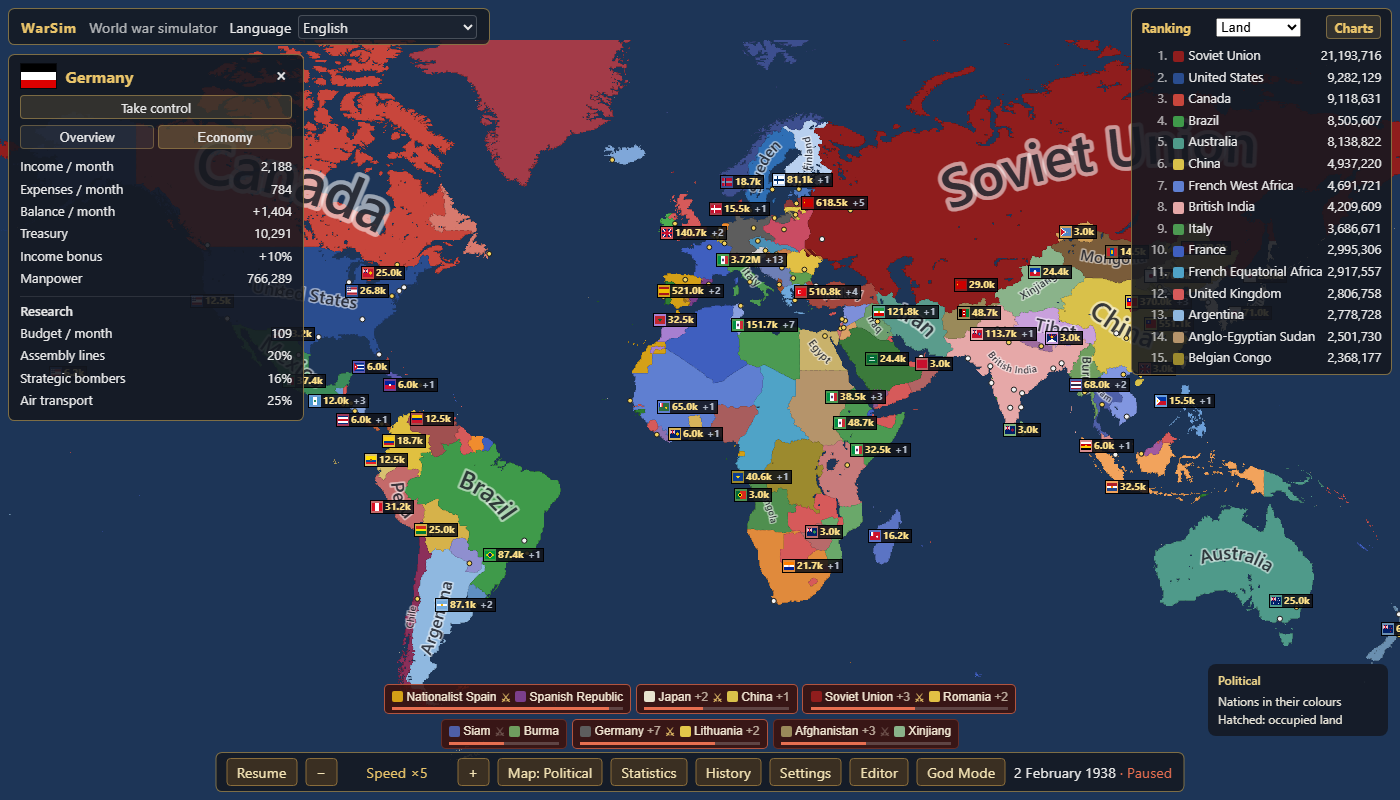
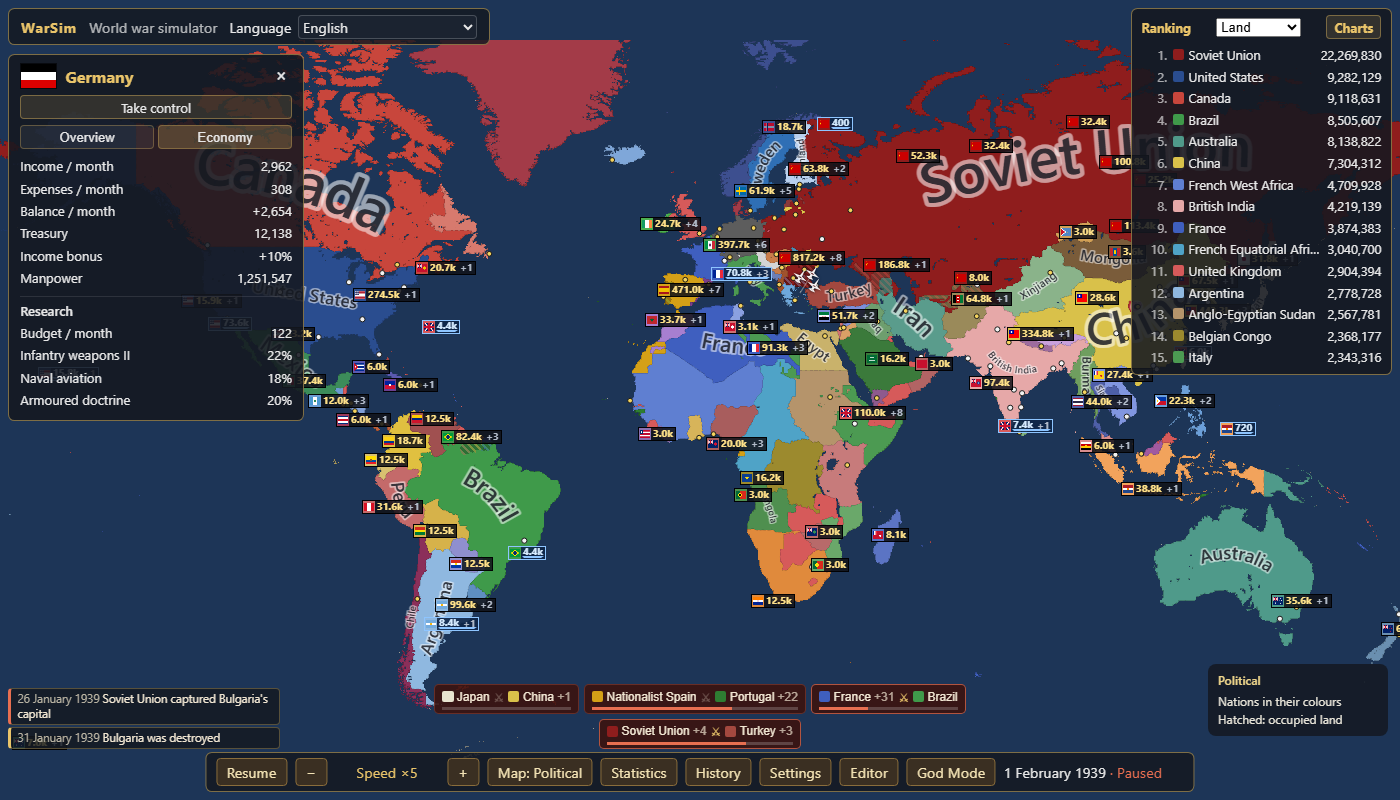
PLAN 5.8w10: research on the page, in 1939 (ADR-364)
Claude-Session: https://claude.ai/code/session_01F7jwXELFm2N2ZdjzXuwQhn

diff --git a/tests/e2e/research1938.spec.ts b/tests/e2e/research1938.spec.ts
@@ -5,14 +5,14 @@ import type {} from '../../src/app/testApi';
 import { NATIONS_1938, RULES_1938 } from '../../src/sim/scenario1938';
 
 // PLAN 3.1e AT: Germany's panel in 1938 lists three techs by name with a share paid that grows
-// over a month, and its research budget.
+// over a month, and its research budget (in 1939 since PLAN 5.8w10).
 
 const en = JSON.parse(readFileSync(path.resolve(import.meta.dirname, '../../src/ui/i18n/en.json'), 'utf8')) as Record<string, string>;
 const id = (tag: string): number => NATIONS_1938.findIndex((n) => n.tag === tag) + 1;
 const int = (s: string | null): number => Number((s ?? '').replace(/[^0-9]/g, ''));
 
 test('research on the page: Germany works on three techs, and a month pays more of each', async ({ page }, info) => {
-  test.setTimeout(180_000);
+  test.setTimeout(300_000);
   await page.setViewportSize({ width: 1400, height: 800 });
   await page.goto('/?scenario=1938&paused=1&seed=1938');
   await page.waitForFunction(() => (window.__warsim?.view?.frames ?? 0) > 0 && window.__warsim!.hud.stats.value !== null && window.__warsim!.hud.techs.value.length > 0, null, { timeout: 60_000 });
@@ -25,8 +25,10 @@ test('research on the page: Germany works on three techs, and a month pays more 
   await expect(page.getByTestId('panel-research')).toContainText(en['panel.researchNone']!);
   await expect(lines).toHaveCount(0);
 
-  // The budget is set on the first day and the lines are opened on the second.
-  await page.evaluate(() => window.__warsim!.sim.step(24 * 2));
+  // The budget is set on the first day and the lines are opened on the second. Of 1939 (PLAN
+  // 5.8w10, ADR-364): since the start's air forces (5.1d) a nation knows the techs its wings need,
+  // and Germany has two techs of 1938 left to learn; on 2 January 1939 it opens three of 1939.
+  await page.evaluate(() => window.__warsim!.sim.step(24 * 366));
   await expect(lines).toHaveCount(3, { timeout: 20_000 });
   const read = async (): Promise<{ name: string; paid: number }[]> => {
     const out: { name: string; paid: number }[] = [];

diff --git a/docs/PARITY.md b/docs/PARITY.md
@@ -109,7 +109,7 @@ by `npm run parity -- --write`; never hand-edit it. `npm run parity` fails if it
 | 5 | Aircraft | Fighters, bombers, CAS, transports, airbases, range, air superiority, interception, strategic bombing, carrier air groups | partial | `tests/unit/airZones1938.test.ts`, `tests/unit/airTemplates.test.ts`, `tests/unit/airbases1938.test.ts`, `tests/unit/wings1938.test.ts`, `tests/unit/wingRange1938.test.ts`, `tests/unit/sorties.test.ts`, `tests/unit/sortieScheduler1938.test.ts`, `tests/unit/airCombat1938.test.ts`, `tests/unit/antiAir1938.test.ts`, `tests/unit/airSuperiority1938.test.ts`, `tests/unit/airGround.test.ts`, `tests/unit/airStrike1938.test.ts`, `tests/unit/navalStrike1938.test.ts`, `tests/unit/carrierAir1938.test.ts`, `tests/unit/bombing1938.test.ts`, `tests/unit/portBombing1938.test.ts`, `tests/unit/airAi1938.test.ts`, `tests/sweep/airYear.test.ts`, `tests/unit/sortiesDrawn.test.ts`, `tests/e2e/sortiesSeen1938.spec.ts`, `docs/evidence/5.7/`, `tests/unit/airFx.test.ts`, `tests/e2e/airFx1938.spec.ts`, `tests/unit/airHolders.test.ts`, `tests/e2e/airControl1938.spec.ts`, `tests/e2e/airDemo1938.spec.ts`, `tests/unit/airDesync.test.ts`, `tests/unit/airEdges.test.ts`, `tests/unit/carrierLoss1938.test.ts`, `tests/unit/airbaseLoss1938.test.ts`, `tests/unit/serverAirControl.test.ts`, `tests/unit/wingAboard1938.test.ts`, `tests/unit/wingsBuilt1938.test.ts`, `tests/unit/airBudget1938.test.ts`, `tests/unit/airSupply.test.ts`, `tests/unit/airDetection1938.test.ts`, `tests/unit/airStrikeSuperiority1938.test.ts`, `tests/unit/airLift1938.test.ts`, `tests/unit/paradrop1938.test.ts` | SPEC §6.3, Phase 5. 2026-10-13 (PLAN 5.1, ADR-306 to ADR-310): the map in air zones; six wing templates; 172 airbases in 1938; the start's 216 wings at their airbases and on the carriers; a wing's range from its base, its mission refused beyond it (`OutOfRange`), and a rebase to its side's airbase or carrier with room. 2026-10-13 (PLAN 5.2, ADR-311, ADR-312): a wing with a mission flies sorties, each a pure function of its launch, turning round 2 hours between them; the sorties in the air by zone. 2026-10-13 (PLAN 5.3a, ADR-313): sorties of nations at war in one zone fight; fighters beat bombers. 2026-10-13 (PLAN 5.3b, ADR-314): AA from what is below a sortie, land and fleets. 2026-10-13 (PLAN 5.3c, ADR-315): air superiority per zone from the air power each side flew there. 2026-10-13 (PLAN 5.4a, ADR-316): air superiority × 0.8 to 1.2 a formation's fire in a land battle. 2026-10-13 (PLAN 5.4b, ADR-317): CAS and tactical bombing of the enemy's land formations. 2026-10-13 (PLAN 5.4c, ADR-318): naval strike. 2026-10-13 (PLAN 5.4d, ADR-319): carrier air groups see and strike in fleet battles. 2026-10-13 (PLAN 5.5a, ADR-320): strategic bombing of industry, repaired day by day. 2026-10-13 (PLAN 5.5b, ADR-321): ports bombed and shut. 2026-10-13 (PLAN 5.6, ADR-322): the AI tasks its wings; a year of seed 99 has 18,856 strikes, the strategic ones where its side holds the air. 2026-10-13 (PLAN 5.7a, ADR-323): sorties drawn as planes along their paths, T0 to T2. 2026-10-13 (PLAN 5.7b, ADR-324): air fights, bombs and flak drawn. 2026-10-13 (PLAN 5.7c, ADR-325): the air-superiority map mode. 2026-10-13 (PLAN 5.7d, ADR-326): the air battle demo at T0 to T2 and in the mode; a sortie meets the enemy's within 150 km. Built since (5.4 to 5.7): CAS, naval strike, strategic bombing, the air AI and the air's visuals. 2026-10-13 (PLAN 5.8, the Phase 5 review, ADR-327 to ADR-351): a saved game plays on as the same game left running; the map's edges; a wing lost with its carrier or beyond its fleet's live carriers, and falling back from an airbase the enemy took; no wing aboard transports; wings built at an airfield, the economic AI keeping its air force under a tenth of its army's upkeep (seed 99: 42 ordered in the year, 23 delivered); air superiority on supply (× 0.5 to 1.5 the refill), a fleet's detection (× 0.75 to 1.25) and a strike's fire and tons (× 0.75 to 1.25); air supply and the paradrop, each flown by the AI (its paradrops reinforce its front, and in 1938 no AI formation can be dropped). Missing: the page's orders for a wing (a mission, a rebase, a paradrop are commands with no control yet); the AI's drops behind the enemy's front; strategic and naval wings rebuilt by the AI. |
 | 6 | AI nuclear weapons | AI research, build, stockpile and use with doctrine, retaliation and escalation logic; delivery, blast, fallout, MAD; God toggles | not started |  | SPEC §6.4, Phase 6 |
 | 7 | Supply and attrition | Supply network from capitals, cities and ports; encirclement attrition | partial | `tests/unit/supply.test.ts`, `tests/unit/fuel.test.ts`, `tests/unit/org.test.ts`, `tests/unit/breakdown.test.ts`, `tests/unit/seaSupply1938.test.ts`, `tests/unit/blockade1938.test.ts`, `tests/unit/convoys1938.test.ts`, `tests/unit/airSupply.test.ts`, `tests/unit/airLift1938.test.ts` | 2026-10-02 (PLAN 1.12): land network floods from owned+controlled cities over the bloc's controlled cells and crossing lanes, puppets share the overlord's bloc; an encircled division drains in 8 h and attrits ≥ 2%/day + terrain. Missing: ports and sea supply (Phase 4), consumption and depots, supply effects on combat 2026-10-07 (PLAN 3.7f; built by PLAN 3.2, ADR-134 to ADR-136, and noted in row 4 alone until now): consumption and supply's effect on combat. Off its network a formation on the march burns what it carries faster by the fuel of its elements; one that moves on engines slows to a quarter of its speed as it runs dry, then loses its org (its fire falls with it, to a quarter with none), then a tenth a day of its tanks and towed heavy guns. A rifle division walks and fights as before. Still missing: ports and sea supply (Phase 4), depots. 2026-10-09 (PLAN 3.12Rl, ADR-223; found by an independent read): the puppets of a nation annexed with its cities occupied kept the mark of its bloc (the Congo's 6,240 cells after Germany annexed Belgium: its formations unfed, a loaded save another game); an annexation that hands puppets over now refreshes the network in full. Still missing, as before; and the flood crosses the seam of a map that does not loop (PLAN 3.12Rp). 2026-10-09 (PLAN 3.12Rp, ADR-227): on a map that does not loop (the `looping=0` option) the network keeps to the edges: a bloc with land at both edges and a city at one has no network at the other, in a full refresh and in a mended one. Still missing, as before; and a formation within 2 cells of the seam on ground not its side's is still fed over it (PLAN 3.12Rs). 2026-10-12 (PLAN 4.8g; built by PLAN 4.4b to 4.4d, ADR-258 to ADR-260, and noted in additions row 3 alone until now): ports and sea supply. A land's cities feed its network only while a way by sea that no enemy holds joins it to home (`tests/unit/seaSupply1938.test.ts`); and two effects on income: a province with every port in an enemy-held zone pays half its income (the blockade, `tests/unit/blockade1938.test.ts`), and enemy submarines on a land's way home take a share of its income (convoys, `tests/unit/convoys1938.test.ts`). Still missing: depots; and a formation within 2 cells of the seam on ground not its side's is still fed over it (PLAN 3.12Rs). 2026-10-13 (PLAN 5.8t1, 5.8u1, 5.8u3a, ADR-345, ADR-348, ADR-350): a formation fed regains its supply at half the rate under the enemy's air, one and a half under its own; transports fly supply to formations short of it (1/48 of a formation's supply an aircraft), and the AI's to its own under half. |
-| 8 | Production, manpower and tech | Production queues, manpower, a 1936–1990+ tech tree gating unit types | partial | `data/tech/`, `tests/unit/data-schemas.test.ts`, `tests/unit/production.test.ts`, `tests/unit/tech.test.ts`, `docs/evidence/3.1/build-list-poland.png`, `tests/unit/research.test.ts`, `tests/sweep/researchYears.test.ts`, `tests/unit/armourTemplates.test.ts`, `tests/e2e/research1938.spec.ts`, `tests/unit/techNames.test.ts`, `docs/evidence/3.1/research-germany.png`, `tests/unit/armourWorth.test.ts`, `tests/unit/ships1938.test.ts`, `tests/e2e/buildFleet1938.spec.ts`, `tests/unit/navyBudget1938.test.ts`, `tests/unit/lakePorts1938.test.ts`, `tests/unit/wingsBuilt1938.test.ts`, `tests/unit/airBudget1938.test.ts` | SPEC §3.7. PLAN 1.1: 43-tech tree (1936–1952, 7 categories, acyclic, year-ordered) gates 28 unit types via `techReq`. PLAN 1.10: pay-on-order production queue (gold + manpower, training days, spawn at capital), manpower from 1938 population. Missing: research system, tech gating at order time, production UI. 2026-10-06 (PLAN 3.1a, ADR-127): a nation's techs are state; an order for a template whose techs it lacks is rejected, the AI orders what it can build and the build list says "not researched" (the production UI is there since PLAN 1.33b). Still missing: research. 2026-10-06 (PLAN 3.1b, ADR-128): research. A nation pays for up to three techs by the day out of 5% of its income and knows a tech when it is paid for; the year of a tech is a floor; the nuclear techs wait for Phase 6. Evidence added: `tests/unit/research.test.ts`, `tests/sweep/researchYears.test.ts` (seed 99: nobody knows the heavy tank before 1942, seven great powers on 1942-08-28). Still missing: research on the page (PLAN 3.1e), tech modifiers, industry as an input. 2026-10-06 (PLAN 3.1c, ADR-129): what is learned can be built: four templates that ask for the techs of 1940 to 1950 (medium armoured, heavy armoured, mechanised and main battle tank divisions), on the build list as "not researched" in 1938 (`docs/evidence/3.1/build-list-poland.png`, shot again), and the AI's armour order is the best of them it knows and has the gold for (`tests/unit/armourTemplates.test.ts`). Still missing: research on the page (PLAN 3.1e), tech modifiers, industry as an input. 2026-10-06 (PLAN 3.1e, ADR-130): research on the page. The Economy tab of the nation panel has the research budget per month and a row per line with the tech's name and the share paid (`tests/e2e/research1938.spec.ts`: Germany, three lines from the second day, each further a month on; `docs/evidence/3.1/research-germany.png`). Still missing: tech modifiers, industry as an input, a list of what a nation knows, a command for a budget or a tech 2026-10-06 (PLAN 3.1d, ADR-131): the AI that disbands for want of money takes first what has the least of its upkeep in tanks, then the weakest by men (`tests/unit/armourWorth.test.ts`). Still missing: as before. 2026-10-06 (PLAN 3.4Rg, ADR-144): the research budget is a rule for every living nation, with AI or without; a played nation had none and never opened a line (`tests/unit/research.test.ts`, `tests/sweep/researchYears.test.ts`: France played from tick 0 knows 27 techs after two years, as the AI's France does; 18 before). Still missing: as before 2026-10-12 (PLAN 4.8g; built by PLAN 4.2e, 4.2f and 4.6e1, ADR-252, ADR-273, and noted in additions row 3 alone until now): ships are built. A nation with a port a ship reaches orders the six fleets, each in its slowest ship's days, delivered at its highest naval base (`tests/unit/ships1938.test.ts`, `tests/e2e/buildFleet1938.spec.ts`; a lake port is none, `tests/unit/lakePorts1938.test.ts`); the economic AI keeps its navy near 12 % of its income (`tests/unit/navyBudget1938.test.ts`). Still missing: as before. 2026-10-13 (PLAN 5.8s1, 5.8s2, ADR-343, ADR-344): an air wing is ordered as a land formation is and delivered at an airfield of its nation's with room; the economic AI orders a wing a time while its air force's upkeep is under a tenth of its army's. |
+| 8 | Production, manpower and tech | Production queues, manpower, a 1936–1990+ tech tree gating unit types | partial | `data/tech/`, `tests/unit/data-schemas.test.ts`, `tests/unit/production.test.ts`, `tests/unit/tech.test.ts`, `docs/evidence/3.1/build-list-poland.png`, `tests/unit/research.test.ts`, `tests/sweep/researchYears.test.ts`, `tests/unit/armourTemplates.test.ts`, `tests/e2e/research1938.spec.ts`, `tests/unit/techNames.test.ts`, `docs/evidence/3.1/research-germany.png`, `tests/unit/armourWorth.test.ts`, `tests/unit/ships1938.test.ts`, `tests/e2e/buildFleet1938.spec.ts`, `tests/unit/navyBudget1938.test.ts`, `tests/unit/lakePorts1938.test.ts`, `tests/unit/wingsBuilt1938.test.ts`, `tests/unit/airBudget1938.test.ts` | SPEC §3.7. PLAN 1.1: 43-tech tree (1936–1952, 7 categories, acyclic, year-ordered) gates 28 unit types via `techReq`. PLAN 1.10: pay-on-order production queue (gold + manpower, training days, spawn at capital), manpower from 1938 population. Missing: research system, tech gating at order time, production UI. 2026-10-06 (PLAN 3.1a, ADR-127): a nation's techs are state; an order for a template whose techs it lacks is rejected, the AI orders what it can build and the build list says "not researched" (the production UI is there since PLAN 1.33b). Still missing: research. 2026-10-06 (PLAN 3.1b, ADR-128): research. A nation pays for up to three techs by the day out of 5% of its income and knows a tech when it is paid for; the year of a tech is a floor; the nuclear techs wait for Phase 6. Evidence added: `tests/unit/research.test.ts`, `tests/sweep/researchYears.test.ts` (seed 99: nobody knows the heavy tank before 1942, seven great powers on 1942-08-28). Still missing: research on the page (PLAN 3.1e), tech modifiers, industry as an input. 2026-10-06 (PLAN 3.1c, ADR-129): what is learned can be built: four templates that ask for the techs of 1940 to 1950 (medium armoured, heavy armoured, mechanised and main battle tank divisions), on the build list as "not researched" in 1938 (`docs/evidence/3.1/build-list-poland.png`, shot again), and the AI's armour order is the best of them it knows and has the gold for (`tests/unit/armourTemplates.test.ts`). Still missing: research on the page (PLAN 3.1e), tech modifiers, industry as an input. 2026-10-06 (PLAN 3.1e, ADR-130): research on the page. The Economy tab of the nation panel has the research budget per month and a row per line with the tech's name and the share paid (`tests/e2e/research1938.spec.ts`: Germany, three lines from the second day, each further a month on; `docs/evidence/3.1/research-germany.png`). Still missing: tech modifiers, industry as an input, a list of what a nation knows, a command for a budget or a tech 2026-10-06 (PLAN 3.1d, ADR-131): the AI that disbands for want of money takes first what has the least of its upkeep in tanks, then the weakest by men (`tests/unit/armourWorth.test.ts`). Still missing: as before. 2026-10-06 (PLAN 3.4Rg, ADR-144): the research budget is a rule for every living nation, with AI or without; a played nation had none and never opened a line (`tests/unit/research.test.ts`, `tests/sweep/researchYears.test.ts`: France played from tick 0 knows 27 techs after two years, as the AI's France does; 18 before). Still missing: as before 2026-10-12 (PLAN 4.8g; built by PLAN 4.2e, 4.2f and 4.6e1, ADR-252, ADR-273, and noted in additions row 3 alone until now): ships are built. A nation with a port a ship reaches orders the six fleets, each in its slowest ship's days, delivered at its highest naval base (`tests/unit/ships1938.test.ts`, `tests/e2e/buildFleet1938.spec.ts`; a lake port is none, `tests/unit/lakePorts1938.test.ts`); the economic AI keeps its navy near 12 % of its income (`tests/unit/navyBudget1938.test.ts`). Still missing: as before. 2026-10-13 (PLAN 5.8s1, 5.8s2, ADR-343, ADR-344): an air wing is ordered as a land formation is and delivered at an airfield of its nation's with room; the economic AI orders a wing a time while its air force's upkeep is under a tenth of its army's. 2026-10-14 (PLAN 5.8w10, ADR-364): research on the page is shown in 1939: since the start's air forces a nation knows the techs its wings need, and no nation has three techs of 1938 to work on (`tests/e2e/research1938.spec.ts`: Germany, three lines on 2 January 1939, each further a month on; `docs/evidence/3.1/research-germany.png`, shot again on 1 February 1939). Still missing: as before. |
 | 9 | Deterministic worker sim | Pure seeded engine in a Web Worker; bit-identical save/load; replayable command log | partial | `tests/unit/determinism.test.ts`, `tests/e2e/worker.spec.ts`, `tests/e2e/snapshots.spec.ts`, `tests/unit/movement.test.ts` | SPEC §2, ADR-2, ADR-5. Phase 0: worker-hosted Sim, acked snapshots, I1–I5 on the toy world. **2026-10-05 (PLAN 2.12a, the critic's R2-B4):** a loaded game did not go on as the saved one late in a long 1938 game, and the worker's hash left Node's: a nation founded as its table grew was lost, and a loaded table grows at another row. Fixed; a game saved at each of ten year-ends on five seeds and loaded goes on as the game that was saved (50 of 50, by hand), and in the gate at year 9 of three seeds (`tests/helpers/aiSweep.ts`), with `tests/unit/tableGrowth.test.ts` and `tests/e2e/workerNodeGrowth1938.spec.ts` **2026-10-07 (PLAN 3.5f):** the page left Node again, at tick 73 of the spec's game: a history row held `undefined` (a peace signed by nobody), a NaN whose bits are the engine's. Fixed (ADR-155); `tests/unit/continuedGrowth1938.test.ts`, `tests/unit/war.test.ts`, and the spec green as written. **2026-10-07 (PLAN 3.7a, 3.7h):** the eighth independent read found no fault of save and load where it tried (a load every 173 ticks over 150 days, 57 loads through wartime with the bytes compared, a random world; its scripts are scratch and not kept). The state the review added (`formations.home`) has its test: a march home saved on its way and loaded goes on as the game that ran on. |
 | 10 | Resolution-independent real-geography map | Natural Earth coastlines and provinces; smooth borders and real detail at every zoom (no blocky pixels) | partial | `tests/unit/data-manifest.test.ts`, `docs/bench/R-provinces-M-europe.png`, `docs/bench/A-webgl2-map-z2-close.png`, `tests/e2e/coastPicture1938.spec.ts`, `docs/evidence/2.9/coast-norway-40m.png`, `tests/e2e/groundColour1938.spec.ts`, `docs/evidence/2.14/ground-alps-60m.png` | ADR-1, ADR-7. Phase 0: NE land mask, ETOPO elevation, 4596 admin-1 provinces at load time, smooth borders. 2026-10-02 (PLAN 1.28a): borders free of stair artefacts (analytic gradient), `docs/evidence/1.28/`; fine coastline from the 16k land mask (PLAN 1.28b: fjords and islands, `docs/evidence/1.28/coast-norway.png`). 2026-10-04 (PLAN 2.9, ADR-79): at T2 and T3 the coast is the mask itself (8 px to a cell, a shore inside a pixel), and formations, elements and trees stand on its land (`docs/evidence/2.9/`). 2026-10-05 (the Phase 2 review, PLAN 2.11): at T2 and T3 the map has a ground: relief shading from the elevation, a texture by terrain, trees, rocks and buildings (`docs/evidence/2.8/things-forest-20m.png`, `docs/evidence/2.8/things-city-20m.png`), worked out for each pixel down to 1 m/px. Roads near cities are not built (PLAN 7.4) 2026-10-05 (PLAN 2.14d, ADR-90; the critic's R2-B2: the Alps were salmon pink for being Swiss, Chad sky blue): at T2 and T3 the ground's colour is the terrain's, and the nation's fill is a cast on it that is strong at a border and slight inland (`docs/evidence/2.14/ground-alps-60m.png`, `ground-chad-5m.png`, `ground-berlin-20m.png`, `ground-border-150m.png`) |
 | 11 | Headless runner, soak and sweep tooling | Node runner with metrics, 30-minute soak, multi-seed multi-decade sweep | partial | `tools/headless/runner.ts`, `tests/unit/headless.test.ts`, `tools/sweep/run.ts`, `tests/unit/sweepCriteria.test.ts`, `docs/sweeps/2026-10-03-sweep-b1.md` | SPEC §10. Review 2026-10-04 (the status had stayed "not started"): `npm run sim` (headless runner with yearly metrics, checkpoints, tick timing), `npm run diag`, `npm run sweep` and `sweep:quick` with the criteria of ADR-54. Missing: the 30-minute soak (`npm run soak`) |

diff --git a/DECISIONS.md b/DECISIONS.md
@@ -167,6 +167,23 @@ level directly; hillshade at higher zoom adds procedural detail (SPEC §8 T2/T3)
 runtime. Regenerating assets is idempotent (`npm run data -- --check` fails on drift), and
 `tests/unit/data-manifest.test.ts` verifies sha256, sizes, known places and pyramid consistency.
 
+### ADR-364 · 2026-10-14 · accepted — Research on the page, in 1939 (PLAN 5.8w10)
+
+- **Found** (5.8h, `check:review`, the fourth run): `research1938` (PLAN 3.1e) wants Germany's
+  panel to list three lines on the second day of 1938; it lists two. A bisect from `5e91a56`
+  puts the change at the start's air forces (5.1d, `82a45f5`): a nation knows from the start
+  the techs its wings need (ADR-309), and Germany has two techs of 1938 left to learn
+  (`assembly_line`, `bombers_str_1`). The rule of research is whole: a line opens only for a
+  tech whose year has come. On day 2 of seed 1938 no nation has three lines (97 have one, 5
+  two): the United States has the budget and two techs, Italy three techs and the budget for
+  two.
+- **Decision.** The test takes its second day from 1939: on 2 January 1939 Germany opens three
+  lines of 1939 (`infantry_weapons_2`, `naval_aviation`, `armored_doctrine`), each a fifth paid a
+  month on. What it holds the page to is unchanged; its time 300 s (a year in the worker,
+  about 30 s here). The evidence shot is taken again (1 February 1939).
+- **The pin holds**: no sim input changed.
+- **Tests.** `research1938` green by hand (42 s).
+
 ### ADR-363 · 2026-10-14 · accepted — Back from T2, a day with boxes parted (PLAN 5.8w9)
 
 - **Found** (5.8h, `check:review`, the fourth run): `markerStacks1938`'s test of the way back

diff --git a/PROGRESS.md b/PROGRESS.md
@@ -15253,3 +15253,16 @@ No rule changed and nothing on screen changed. One task came out of it.
 - **The gate:** green (the whole unit suite, 1,391 of 1,391: the working tree's `package.json`;
   the changed spec).
 - **Next:** PLAN 5.8w10.
+
+## 2026-10-14 — PLAN 5.8w10: research on the page, in 1939 (ADR-364)
+
+- **Found:** a bisect from `5e91a56` puts the change at the start's air forces (5.1d,
+  `82a45f5`): Germany knows its wings' techs and has two of 1938 left; no nation has three
+  lines on day 2 of 1938. The rule of research is whole.
+- **Done:** `research1938` opens its lines on 2 January 1939 (Germany: three of 1939).
+- **Tests:** `research1938` green by hand (42 s).
+- **Looked at:** `docs/evidence/3.1/research-germany.png` (1 February 1939): "Budget / month
+  122", "Infantry weapons II 22%", "Naval aviation 18%", "Armoured doctrine 20%".
+- **The gate:** green (the whole unit suite, 1,391 of 1,391: the working tree's `package.json`;
+  the changed spec).
+- **Next:** PLAN 5.8w11.

diff --git a/PLAN.md b/PLAN.md
@@ -70,8 +70,7 @@ quick sweep as a smoke test.
   - [x] 5.8w7 `aiSweep3` runs past its 900 s (1,064 s): the tick's cost since Phase 5 (BLOCKERS, […]
   - [x] 5.8w8 The review's fourth run (found by it, the first to its end): `loadedEffects1938` […]
   - [x] 5.8w9 `markerStacks1938` (:229): back from T2, the T1 boxes are not parted at rest at […]
-  - [ ] 5.8w10 `research1938` (:30): Germany works on 2 techs, not 3, within 20 s. The cause
-    first: the rule, or the 1938 game since Phase 5 (air builds).
+  - [x] 5.8w10 `research1938` (:30): Germany works on 2 techs, not 3, within 20 s. The cause […]
   - [ ] 5.8w11 `stackBlocks1938` (:167): the flank case finds its three formations, none engaged
     (`[false, false, false]`). Its day was picked in the game before Phase 5 changed it.
   - [ ] 5.8w12 `toBattle1938` (:327): weeks into Germany against Poland, the two formations the

diff --git a/docs/PLAN_DONE.md b/docs/PLAN_DONE.md
@@ -8341,3 +8341,20 @@ Of 5.8 (open in PLAN.md):
 
   - [x] 5.8w9 `markerStacks1938` (:229): back from T2, the T1 boxes are not parted at rest at
     1800 m/px (more than 5 wanted). The cause first: the view, or the 1938 game it is given.
+
+<!-- moved 2026-10-14 -->
+
+## Phase 0 — Foundations & benchmarks
+## Phase 1 — Baseline parity
+### 1A Data & scenario
+### 1B Core sim
+### 1C Presentation & tools
+## Phase 2 — Semantic zoom
+## Phase 3 — Armour
+## Phase 4 — Naval
+## Phase 5 — Air
+
+Of 5.8 (open in PLAN.md):
+
+  - [x] 5.8w10 `research1938` (:30): Germany works on 2 techs, not 3, within 20 s. The cause
+    first: the rule, or the 1938 game since Phase 5 (air builds).
